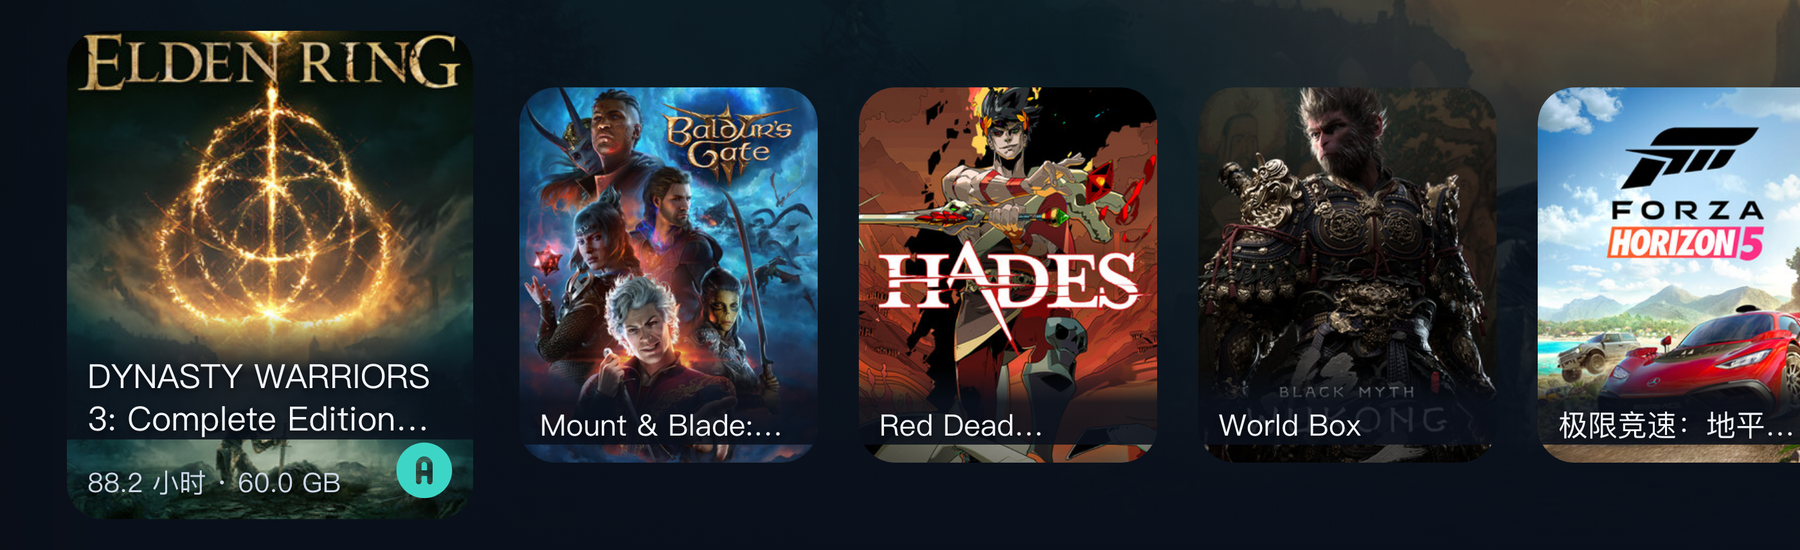
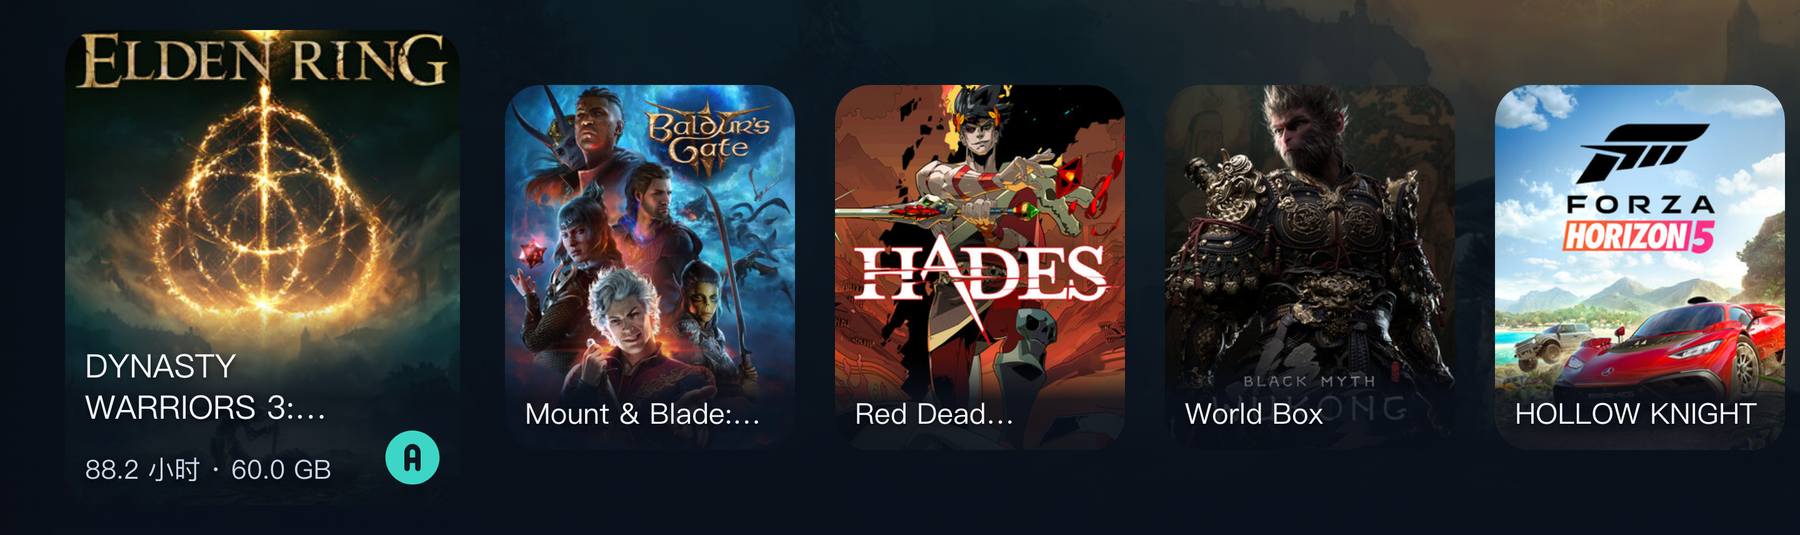
卡片名字拆成两层：阴影盖到卡片下沿，限行交给里层（0.1.73 的补丁）
用户装上 0.1.73 之后圈出卡片条：名字底下那层阴影没盖到卡片下沿，最下面露出一条没压暗的封面，
和上面的深色块之间是一道硬边（「你下面要么就全盖上，不然突然有一块黑色」）。

根因是 0.1.73 那版把名字块的下内边距（7dp）从 padding-bottom 挪到了 bottom ——
半截字是没了，但**铺渐变的那层盒子也跟着抬高了 7dp**。而「限行」和「铺阴影」压在同一层时本来
就互相打架：限行要求裁的那层下内边距为 0（否则被裁掉的下一行会在那几 dp 里露出半截），
阴影又必须画到卡片下沿。所以拆两层：

- 外层 `.library-name`：`bottom: 0` 贴底铺渐变（带 facts 时改用 padding-bottom: 31dp 让位，
  盒子仍然贴底，所以「时长 · 体积」那一行也在阴影里）；
- 里层 `.library-name-text`：`display: -webkit-box` + `-webkit-line-clamp`（1 行 / 聚焦 2 行），
  下内边距 0 —— 裁切线正好落在最后一行下面。

GamesPage / AppsPage 三处名字各包一层（K2 与对话框那两种卡片没有下内边距，多这层不影响）。
探针 K1 那组断言扩成四条：长名字不露半截字 / 名字框高 = N 行 / **阴影盖到卡片下沿（最大差 0dp）**
/ facts 不压住名字；原来那条「第二行在卡内、没压住名称」改成量 `.library-name-text`
（外层现在是铺阴影的盒子，拿它比会永远「压住」）。
封面那一关的断言也改成钉「链走到了宽图 + 一张都没掉占位」而不是「12 张都下载完」——
CDN 慢时那几张还在路上是网络不是逻辑（本机见过 6/12 的假红）。
1280×720 与 1920×1080 全过；build / audit-ui / audit-acl 全过。

diff --git a/src/styles/games.css b/src/styles/games.css
@@ -324,34 +324,54 @@
   background: var(--accent);
 }
 
-/* 卡片上只有名字（§3.4）：压在封面底部，未聚焦一行、聚焦两行 */
+/*
+ * 卡片上只有名字（§3.4）：压在封面底部，未聚焦一行、聚焦两行。
+ *
+ * **这一层只负责两件事**：盒子贴到卡片底边（`bottom: 0`）—— 底下那层阴影必须一直盖到卡片下沿；
+ * 以及给 A 角标 / 第二行留出内边距。**限行不在这里做**，交给里面那层 `.library-name-text`。
+ *
+ * 为什么拆成两层（2026-10-12 真机两轮反馈的净结果）：
+ *   ① 真机长英文名（"Mount & Blade: Warband"）下方露出**半截字** —— `-webkit-line-clamp` 只把
+ *      盒子高度收到 N 行，多出来的行照样画在盒子里、由 `overflow: hidden` 按**内边距盒**的边裁掉；
+ *      裁的那层只要带下内边距，下一行就在那几 dp 里露出上半截。
+ *   ② 把下内边距挪成 `bottom` 之后半截字没了，但**阴影跟着抬高了 7dp** —— 卡片底部露出一条没压暗的
+ *      封面，就是「突然有一块黑色、下面没盖上」（用户 2026-10-12 第二次截图）。
+ *   两层之后两条同时成立：阴影那层的盒子照旧贴底（含 `has-facts` 时用 padding 让位），
+ *   限行那层下内边距为 0 —— 裁切线正好落在最后一行下面。
+ */
 .k1-card .library-name {
   position: absolute;
   left: 0;
   right: 0;
-  /*
-   * 底部那 7dp 是 `bottom` 而不是 `padding-bottom` —— 2026-10-12 真机截图（长英文名）踩出来的坑：
-   * `-webkit-line-clamp` 只把**盒子高度**收到 N 行，多出来的行照样画在盒子里，靠 `overflow: hidden`
-   * 裁掉；而裁切线是**内边距盒**的边 —— 下内边距有多少，下一行就露出多少。7dp 的下内边距正好露出
-   * 半截字（「Mount & Blade:…」底下再挂半行 "Warband"，聚焦卡底下挂半行 "Complete Edition"）。
-   * 把这段距离交给 `bottom` 之后，裁切线正好落在最后一行下面，半截字没有了。
-   */
-  bottom: calc(7 * var(--dp));
+  bottom: 0;
   min-height: 0;
-  padding: calc(16 * var(--dp)) calc(8 * var(--dp)) 0;
+  padding: calc(16 * var(--dp)) calc(8 * var(--dp)) calc(7 * var(--dp));
   font-size: calc(11.5 * var(--dp));
   line-height: 1.25;
   color: var(--ink);
-  -webkit-line-clamp: 1;
+  /* 盖掉 global.css 里 .library-name 的「-webkit-box + 两行限行」：限行归里层 */
+  display: block;
+  -webkit-line-clamp: none;
   background: linear-gradient(180deg, rgba(10, 16, 27, 0) 0%, rgba(10, 16, 27, 0.88) 46%);
   text-shadow: 0 1px calc(2 * var(--dp)) rgba(0, 0, 0, 0.55);
 }
 
+/* 真正限行的一层：盒子正好 N 行高、**下内边距为 0**（见上面 ①②）。 */
+.k1-card .library-name-text {
+  display: -webkit-box;
+  -webkit-box-orient: vertical;
+  overflow: hidden;
+  -webkit-line-clamp: 1;
+}
+
 .k1-item.is-current .k1-card .library-name {
   font-size: calc(13 * var(--dp));
-  -webkit-line-clamp: 2;
   /* 右下角要给 A 角标让位 */
   padding-right: calc(30 * var(--dp));
+}
+
+.k1-item.is-current .k1-card .library-name-text {
+  -webkit-line-clamp: 2;
 }
 
 /*
@@ -387,8 +407,10 @@
    连那一行都不该留位置。所以：有数据 → 名称抬高 20dp、第二行贴在底部；
    没数据 → 跟 M1 一模一样（名称贴底）。 */
 .k1-card.has-facts .library-name {
-  /* 24（给第二行让位）+ 7（原来的下内边距，现在挂在 bottom 上）= 31dp，和改之前一个像素不差 */
-  bottom: calc(31 * var(--dp));
+  /* 24（给「时长 · 体积」那一行让位）+ 7（贴底那点内边距）= 31dp。
+     用 **padding-bottom** 而不是 `bottom`：盒子仍然贴到卡片下沿，阴影照旧盖满（含 facts 那一行），
+     只是文字被垫高了 31dp —— 两轮真机反馈的合题。 */
+  padding-bottom: calc(31 * var(--dp));
 }
 
 .k1-card-facts {

diff --git a/src/pages/GamesPage.tsx b/src/pages/GamesPage.tsx
@@ -309,7 +309,9 @@ function GameCard({
         onClick={activate}
       >
         {cover}
-        <span className="library-name">{title}</span>
+        <span className="library-name">
+          <span className="library-name-text">{title}</span>
+        </span>
         {facts && <span className="k1-card-facts tnum">{facts}</span>}
         {running && <span className="k1-run-dot" aria-hidden />}
         <KeyCap label="A" className="k1-a" />
@@ -328,7 +330,9 @@ function GameCard({
     >
       {picked && <span className="pick-mark">✓</span>}
       {cover}
-      <span className="library-name">{title}</span>
+      <span className="library-name">
+        <span className="library-name-text">{title}</span>
+      </span>
     </button>
   );
 }

diff --git a/src/pages/AppsPage.tsx b/src/pages/AppsPage.tsx
@@ -236,7 +236,9 @@ function AppCard({
           {displayAppMark(app.id, app.mark, currentLocale())}
         </span>
       )}
-      <span className="library-name">{title}</span>
+      <span className="library-name">
+        <span className="library-name-text">{title}</span>
+      </span>
     </button>
   );
 }

diff --git a/STATUS.md b/STATUS.md
@@ -5,7 +5,9 @@
 
 对照「已经能用 / 刚改完待打包验证 / 还没做」。掌机请以最新 Release 为准。
 
-**未发布（0.1.73）：三个页面的样式问题（用户真机照片）** —— 0.1.72 装上掌机之后，用户发来模拟器 / 工具箱 / 游戏库三张照片：「要么是不对齐，要么是文字显示不全，要么是封面没正确显示，要么是按钮间没间距」。四条全是**真机才显形**的（长英文游戏名 + 真实系统数据 + 1280×720 逻辑分辨率，浏览器预览里都是短中文名、没有后端）：① 卡片名字被 `-webkit-line-clamp` 切掉半行 —— 裁切线是内边距盒的边，下内边距那 7dp 正好把下一行露出来（挪成 `bottom` 就好，全项目另外 8 处 `line-clamp` 都查过没事）；② 有张卡的封面空着 —— 不是坏了，是那个游戏 Steam **只给了宽图**（实测 appid 3841510 的竖封面 / 胶囊 / 头图全 404、`library_hero.jpg` 是 200），卡片封面回退链现在补上宽图与头图这两档；③ 工具箱每行那三颗按钮只隔 2dp（行高 28 = 按钮高），改成 10dp；④ 模拟器六张卡 `align-items: start` 各按内容收，同一行底边参差 —— 改成整行等高、按钮压到卡底。探针为这四条各加了一条断言（含「竖封面 404 时退到宽图」那一关，用 CDP 延迟失败造真 404）。细则见下面「未发布（0.1.73）」一节。
+**未发布（0.1.74）：卡片名字底下的阴影要盖到卡片下沿** —— 0.1.73 那版把名字的下内边距挪成 `bottom`、半截字是没了，但**铺渐变的那层盒子跟着抬高了 7dp**：卡片最底下露出一条没压暗的封面，和上面的深色块之间是一道硬边（用户圈出来：「你下面要么就全盖上，不然突然有一块黑色」）。修法是把名字拆成两层：外层贴底（`bottom: 0`）铺渐变、带 facts 时用 `padding-bottom` 让位，里层下内边距为 0、专门限行 —— 「裁切线落在最后一行下面」和「阴影盖满到卡片下沿」在同一层上做不到，拆开就同时成立。探针 K1 那组断言扩成四条（新增「阴影盖到卡片下沿，最大差 0dp」）。细则见下面「未发布（0.1.74）」一节。
+
+**已发布 `v0.1.73`（2026-10-12，真机装过）**：三个页面的样式问题（用户真机照片） —— 0.1.72 装上掌机之后，用户发来模拟器 / 工具箱 / 游戏库三张照片：「要么是不对齐，要么是文字显示不全，要么是封面没正确显示，要么是按钮间没间距」。四条全是**真机才显形**的（长英文游戏名 + 真实系统数据 + 1280×720 逻辑分辨率，浏览器预览里都是短中文名、没有后端）：① 卡片名字被 `-webkit-line-clamp` 切掉半行 —— 裁切线是内边距盒的边，下内边距那 7dp 正好把下一行露出来（挪成 `bottom` 就好，全项目另外 8 处 `line-clamp` 都查过没事）；② 有张卡的封面空着 —— 不是坏了，是那个游戏 Steam **只给了宽图**（实测 appid 3841510 的竖封面 / 胶囊 / 头图全 404、`library_hero.jpg` 是 200），卡片封面回退链现在补上宽图与头图这两档；③ 工具箱每行那三颗按钮只隔 2dp（行高 28 = 按钮高），改成 10dp；④ 模拟器六张卡 `align-items: start` 各按内容收，同一行底边参差 —— 改成整行等高、按钮压到卡底。探针为这四条各加了一条断言（含「竖封面 404 时退到宽图」那一关，用 CDP 延迟失败造真 404）。细则见下面「未发布（0.1.73）」一节。
 
 **已发布 `v0.1.72`（2026-10-12，真机装过）**：菜单从左侧栏搬进顶栏页签条，整条退出焦点系统 —— 0.1.71 把菜单和列表拆成两个焦点域之后，用户真机复测回来说**其他页仍会被方向键从落地页送回菜单**，尤其上下键。顺着反馈查到底，是两条真的路：① **焦点一掉出池子就落到 `nodes[0]`**，而池子按 DOM 排序、第一项**永远**是侧栏第一行（按钮按下去变灰、点一下整块重挂载、手指点到空白处都会让焦点回到 body —— 真机 + 调用栈都验过）；② **页面元素没包 `data-focus-zone` 时（首页/下载/工具箱/模拟器那几颗按钮），上下跨域的候选池是「全部元素」**，宽按钮和侧栏算得成「同一列」，于是上下键直接挑中侧栏某一行。用户给的方向是改结构：「直接把 menu 改成顶部的切换……直接使用 RB 和 LB 来切换，不允许聚焦就可以了，其他位置的交互什么的不变」。于是这一版：**菜单变成顶栏里的 9 项页签条（7 个可进 + 商店/社区锁定），里面一个 `[data-focusable]` 都没有** —— 换页只有手柄 LB/RB、键盘 Q/E，触摸屏点一下也换页但焦点不留在页签上（`onPointerDown` 里 preventDefault）；方向键从此只可能在内容区里走；焦点掉了也统一走「当前那张卡 → 当前选中项 → 内容区第一项」这条落地规矩。菜单下线连带：`backOnce()` 不再有「回菜单」这一步、侧栏的品牌块与搜索占位一起消失、侧栏底部那张存储卡改成底部状态条左边的一行**只读**读数（用户明确去掉那颗「打开文件」按钮）。内容区宽了 236dp，K2/K7/K4 的横向数字与探针断言按新左缘（24dp）重算，纵向一个数没动。细则见下面「未发布（0.1.72）：菜单搬进顶栏页签条」一节。
 
@@ -111,7 +113,31 @@
   （工具箱与首页的布局没塌、设置抽屉少一行但其余照常）。顺带一个可预期的变化：安装包会明显变小
   （小组件 payload 过去固定占 ~7.8 MB，0.1.60–0.1.64 的包都是 27–30 MB）。
 
-## 未发布（0.1.73）：三个页面的样式问题（2026-10-12，用户真机照片反馈）
+## 未发布（0.1.74）：卡片名字底下的阴影要盖到卡片下沿（2026-10-12，用户真机照片）
+
+用户装上 0.1.73 之后又发来一张卡片条的截图，圈出中间那张卡：「你看这个阴影也不对，你下面要么就
+全盖上，不然突然有一块黑色，不好看啊」。
+
+- **这是 0.1.73 那版的补丁，不是新问题**：0.1.73 把卡片名字的下内边距（7dp）从 `padding-bottom`
+  挪到了 `bottom`，半截字是没了，但**铺渐变的那一层盒子也跟着抬高了 7dp** —— 卡片最底下那 7dp
+  没有压暗，露出一条封面，和上面的深色块之间就是一道硬边。放大量过用户截图：名字那块深色区域的
+  下沿是一条笔直的横线，线下面直接是封面原色。
+- **修法（两层）**：外层 `.library-name` 恢复 `bottom: 0` + `padding: 16 / 8 / 7`（渐变照旧画到
+  卡片下沿），带 facts 时改用 `padding-bottom: 31dp` 让位（盒子仍然贴底，所以 facts 那一行也在阴影里）；
+  **限行移到里层** `.library-name-text`（`display: -webkit-box` + `-webkit-line-clamp` + 下内边距 0）。
+  这样「裁切线落在最后一行下面」与「阴影盖满到卡片下沿」同时成立 —— 上一版在同一层上是做不到的。
+- **连带**：`GamesPage` / `AppsPage` 三处名字各包一层 `.library-name-text`（K2 与对话框那两种卡片
+  没有下内边距，多这一层对它们没有影响）。
+- **本机验证**：把预览的短中文名换成真机那几个长英文名，量出来每张卡「阴影底 − 卡底 = 0dp」、
+  「露出的半截字 = 0」、聚焦卡「facts 与名字间隙 9.5dp」；截了一张对照图
+  （`docs/redesign/preview/style-cards-after.png` 已换成这一版）。
+  探针 K1 那组断言扩成四条并全过（1280×720 与 1920×1080）。
+  另外原来那条「第二行在卡内、没压住名称」量的元素要跟着改成 `.library-name-text` —— 外层现在是
+  铺阴影的盒子，拿它跟 facts 比会永远报「压住」。
+- **没验证的**：真机观感 —— 尤其聚焦卡那片渐变的面积比 0.1.73 之前大了 24dp（现在把 facts 那一行
+  也盖进去了），是不是还够"透气"。
+
+## 0.1.73（已发布）：三个页面的样式问题（2026-10-12，用户真机照片反馈）
 
 用户装完 0.1.72 之后发了三张真机照片（模拟器 / 工具箱 / 游戏库），一句话是「这三个页面里的元素
 都有不同程度的样式问题，要么是不对齐，要么是文字显示不全，要么是封面没正确显示，要么是按钮间

diff --git a/docs/redesign/preview/README.md b/docs/redesign/preview/README.md
@@ -19,7 +19,7 @@
 | `shell-tabs-apps-1280.png` | 同一版外壳 · 软件库（画板 K2）：6 列网格仍然 6 列，卡片宽度跟着内容区走（192dp）；底部操作条通栏 `24..1256`。 |
 | `shell-tabs-games-en-1280.png` | 同一版外壳 · 英文界面：`Downloads` / `Emulators` / `Community` 是最长的三个页签 —— 这张用来确认 9 个页签都待在条盒里、没溢到时钟或电量上（探针的英文一遍也断言这一条）。 |
 | `style-cards-before.png` | **2026-10-12 修卡片名"半截字"之前的现场**：把预览里的短中文名换成真机上的长英文名（`DYNASTY WARRIORS 3: Complete Edition Remastered` 等）就复现了 —— 每一张卡的名字下面都露出半行被横切的字（`-webkit-line-clamp` 的裁切线是内边距盒的边，下内边距 7dp 正好把下一行露出来）。 |
-| `style-cards-after.png` | 同一批长名字，**修完之后**：聚焦卡两行 + 省略号、未聚焦卡一行 + 省略号，下面再没有半截字（下内边距挪成 `bottom`，见 `games.css` 的说明）。这两张是同一页同一批数据的对比，留着是为了以后有人再动那块名字的定位。 |
+| `style-cards-after.png` | 同一批长名字，**两轮修完之后**：聚焦卡两行 + 省略号、未聚焦卡一行 + 省略号，没有半截字；而且**名字底下那层阴影一直盖到卡片下沿**（第一轮只把下内边距挪成 `bottom`，阴影跟着抬高 7dp、卡片底部露出一条封面 —— 用户 2026-10-12 第二次截图圈的就是它；现在拆成「外层贴底铺阴影 + 里层限行」两层，见 `games.css` 的说明）。这两张是同一页同一批数据的对比，留着是为了以后有人再动那块名字的定位。 |
 | `style-emulator-cards.png` | 模拟器页**改成整行等高之后**的样子（原来是 `align-items: start`，Switch 那张比 PS2 高三行，同一行卡片底边参差、按钮不在一条线上）。 |
 | `style-toolbox-rows.png` | 工具箱"游戏运行库 / 系统维护"两张卡的行内按钮（真机上才有数据的版面，浏览器里没有后端，这张是**照真机结构手搭 DOM** 量的）：行高 34 + 行距 4，按钮之间 10dp（原先是 2dp）。 |
 | `style-cover-fallback.png` | 封面回退链的证据：把竖封面 / 胶囊 / 头图那几个 URL 拦下来延迟失败（等价真 404）之后，12 张卡**全部退到 `library_hero.jpg`**，没有一张空着。真机现场是《DYNASTY WARRIORS 3: Complete Edition Remastered》（appid 3841510），它的竖封面就是 404、只有宽图在。 |

diff --git a/FRONTEND.md b/FRONTEND.md
@@ -69,7 +69,24 @@
 > 「要用 winmm.dll + 游戏里图形 API 改成 DirectX 12」（文案在 Rust 侧，跟着那张表走）。用户仍然可以
 > 手动改注入名 —— 它只是默认值，不是锁。细则见 `STATUS.md` 的「未发布（0.1.67）」。
 
-## 未发布（0.1.73）：三个页面的样式问题（用户真机照片反馈）
+## 未发布（0.1.74）：卡片名字底下的阴影要盖到卡片下沿（用户真机照片 · 0.1.73 的补丁）
+
+**一句话**：0.1.73 那版把卡片名字的下内边距挪成 `bottom`，半截字没了，但**阴影跟着抬高了 7dp** ——
+卡片底部露出一条没压暗的封面，看着就是「突然有一块黑色、下面没盖上」。现在把名字拆成两层：
+外层 `.library-name` 贴底（`bottom: 0`）铺渐变、带 facts 时用 `padding-bottom` 让位，
+里层 `.library-name-text` 下内边距为 0、专门限行。
+
+- **为什么必须两层**：`-webkit-line-clamp` 的裁切线是**内边距盒**的边 —— 限行的那层只要带下内边距，
+  被裁掉的下一行就在那几 dp 里露出半截；而阴影又必须一直画到卡片下沿。这两件事在同一层上做不到，
+  所以「位置 + 阴影」留在外层、「限行」交给里层（里层盒子正好 N 行高、下内边距 0）。
+- **连带改的**：`GamesPage` / `AppsPage` 三处 `<span className="library-name">` 里各包了一层
+  `.library-name-text`（K2 与对话框那两种卡片没有下内边距，多这一层不影响它们）。
+- **探针**：K1 那两条断言扩成四条 —— 「长名字不露半截字」「名字框高 = N 行」
+  「**名字的阴影盖到卡片下沿（最大差 0dp）**」「facts 不压住名字」；另外原来那条
+  「第二行在卡内、没压住名称」量的是 `.library-name`，拆层之后要改成量 `.library-name-text`
+  （外层现在是铺阴影的盒子，拿它比会永远「压住」）。1280×720 与 1920×1080 全过。
+
+## 0.1.73（已发布）：三个页面的样式问题（用户真机照片反馈）
 
 **一句话**：0.1.72 装上掌机之后用户发来三张照片（模拟器 / 工具箱 / 游戏库），四条问题全部定位并修掉 ——
 **这四条都只在真机上显形**（长英文游戏名、真实系统数据、1280×720 逻辑分辨率；浏览器预览是短中文名 +

diff --git a/FEEDBACK.md b/FEEDBACK.md
@@ -163,7 +163,20 @@
 - 希望改成：游戏只有在已启动的情况下才会有退出游戏按钮，没有启动的情况下不要显示
 - 状态：已处理（仅运行中显示「退出游戏」） -->
 
-# 下一版（0.1.73）：这三个页面的样式问题（你这三张照片里的）
+# 下一版（0.1.74）：卡片名字底下那道硬边（你第二张照片圈的）
+
+你对：0.1.73 把那半截字修掉了，但**名字底下那层阴影跟着抬高了 7dp** —— 卡片最下面露出一条没压暗的封面，
+和上面的深色块之间就是一道硬边。根因是「限行」和「铺阴影」原来压在同一层上：限行要求下内边距为 0
+（否则被裁掉的下一行会在那几 dp 里露出半截），而阴影又必须画到卡片下沿。现在拆成两层：
+外层贴底铺渐变（带「时长 · 体积」那一行时用下内边距让位，所以那一行也在阴影里），
+里层专门限行（下内边距 0）。
+
+这次请看：① 每张卡最下面那条边是不是不露封面了（阴影一直盖到卡片圆角）；② 聚焦那张卡
+（有「时长 · 体积」一行）阴影是不是把那一行也盖住了、看着会不会太重；③ 名字长的卡下面还有没有半截字。
+
+---
+
+# 上一版（0.1.73）：这三个页面的样式问题（你这三张照片里的）
 
 照片里四条问题都定位到了，也都改了：
 
